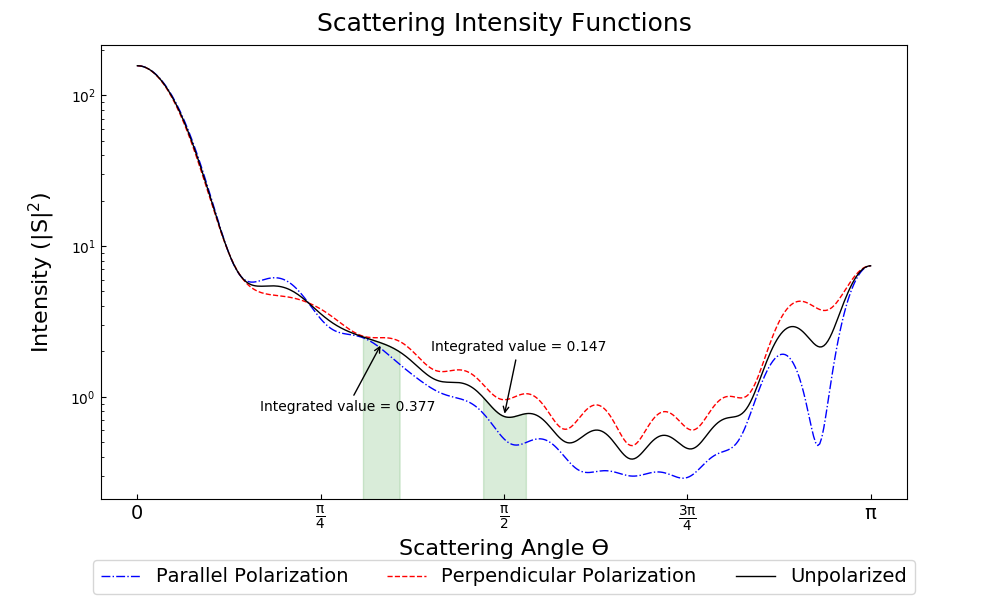
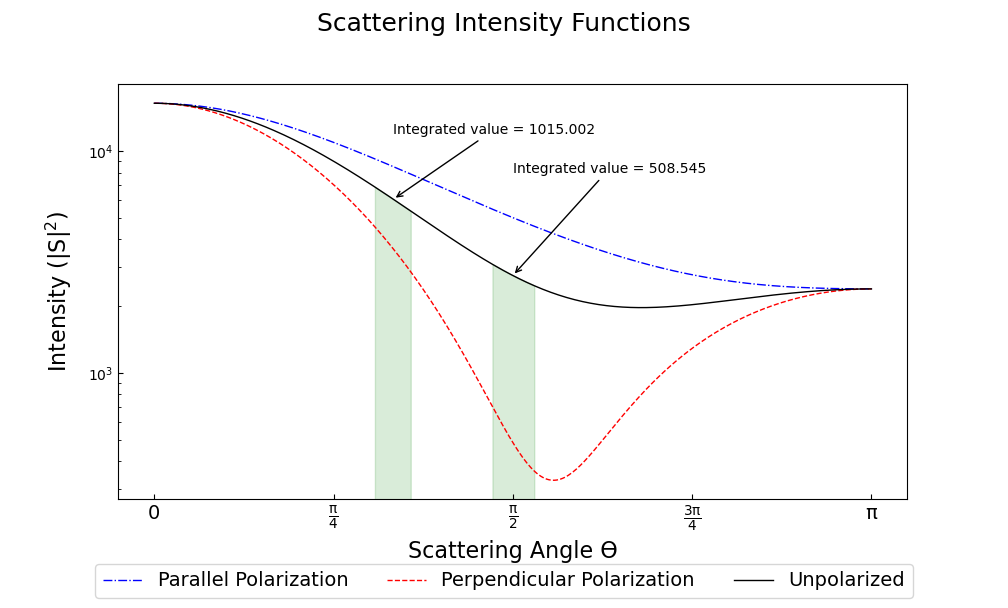
updated examples

diff --git a/docs/examples.rst b/docs/examples.rst
@@ -3,7 +3,7 @@
 General Usage tips and Example Scripts
 ======================================
 
-PLEASE NOTE THAT MANY OF THESE EXAMPLES ARE ***EXTREMELY*** OUTDATED. I WILL UPDATE THEM, I PROMISE.
+Examples are now more or less up-to-date with PyMieScatt's modern syntax.
 
 PyMieScatt's functions are designed to work as a standalone calculator or as part of larger, more customized scripts. This page has a few selected examples which will expand as more innovative use cases appear. If you use PyMieScatt in your research in an unexpected or novel way, please `contact the author <mailto:bsumlin@wustl.edu>`_ to post an example here.
 
@@ -64,7 +64,7 @@ The `angular functions <http://pymiescatt.readthedocs.io/en/latest/forward.html#
    d=5000
    
    theta,SL,SR,SU = ps.ScatteringFunction(m,w,d)
-   qR,SLQ,SRQ,SUQ = ps.ScatteringFunction(m,w,d,space='qspace',normed=False)
+   qR,SLQ,SRQ,SUQ = ps.ScatteringFunction(m,w,d,space='qspace')
    
    plt.close('all')
    
@@ -124,7 +124,7 @@ First, install ffmpeg exe using conda:
    for i,d in enumerate(drange):
      if 250%(i+1)==0:
        print("Working on image " + str(i) + "...",flush=True)
-     theta,SL,SR,SU = ps.ScatteringFunction(m,wavelength,d,space='theta',normed=True)
+     theta,SL,SR,SU = ps.ScatteringFunction(m,wavelength,d,space='theta',normalization='t')
        
      plt.close('all')
      
@@ -198,7 +198,7 @@ Recently, a colleague needed to know how much light a distribution of salt aeros
    sigma_g = 1.5 # geometric standard deviation - replace with your own (unitless)
    N = 1e5 # total number of particles - replace with your own (cm^-3)
    
-   B = ps.Mie_Lognormal(m,wavelength,sigma_g,dp_g,N,returnDistribution=True) # Calculate optical properties
+   B = ps.Mie_Lognormal(m,wavelength,sigma_g,dp_g,N,numberOfBins=1000,returnDistribution=True) # Calculate optical properties
    
    S = ps.SF_SD(m,wavelength,B[7],B[8])
    
@@ -239,13 +239,13 @@ Recently, a colleague needed to know how much light a distribution of salt aeros
    # Annotate plot with integral results
    ax1.annotate("Integrated value = {i:1.3f}".format(i=int_sixty),
                xy=(np.pi/3, S[3][120]), xycoords='data',
-               xytext=(np.pi/6, 0.8), textcoords='data',
+               xytext=(np.pi/3, 12000), textcoords='data',
                arrowprops=dict(arrowstyle="->",
                                connectionstyle="arc3"),
                )
    ax1.annotate("Integrated value = {i:1.3f}".format(i=int_ninety),
                xy=(np.pi/2, S[3][180]), xycoords='data',
-               xytext=(2*np.pi/5, 2), textcoords='data',
+               xytext=(np.pi/2, 8000), textcoords='data',
                arrowprops=dict(arrowstyle="->",
                                connectionstyle="arc3"),
                )
